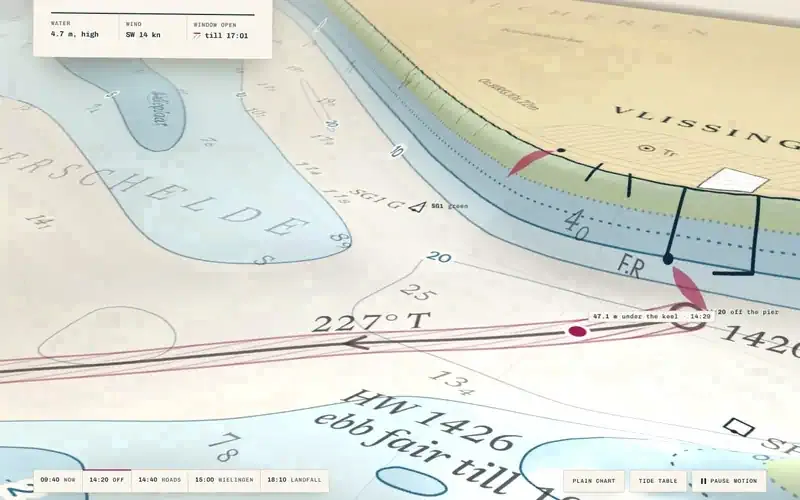
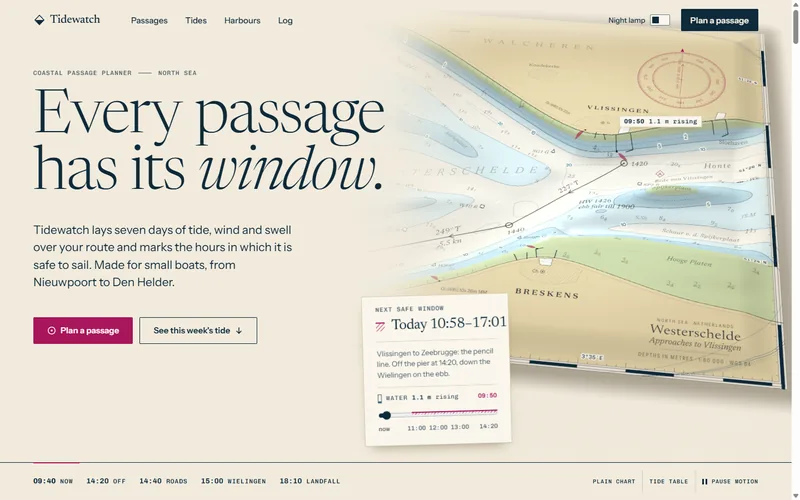
Level 5: a night chart that reads, level 4's tide kept, a hero that clears the strip, a calmer foot
Judged on a real GPU (Radeon RX 9070 XT) in three rounds by two strict judges
(art director 5.5 -> 5.5 -> 6.5, owner 6.5 -> 6.5 -> 6.5).

- Night: the red lamp lights a cabin, not a void (a floor under the pool), and the
  print is pale rose, bright in the pool and softer outside it: Breskens, Hooge
  Platen and the cartouche read again. Day: no white glare (glints and the lamp's
  light on a slope capped); the pool reads again against a room a step darker.
- Level 4's tide kept on the hero: a scale on the slip from now to casting off at
  14:20 with the safe window hatched on it (dragging it holds the clock), and the
  flag at the tide gauge in Vlissingen ("10:01 1.2 m rising") following the camera.
- The hero: the sheet lifted and moved so Breskens and the cartouche stand clear of
  the slip; the slip lies clear of the strip; on a phone the sheet runs the width of
  the screen under the buttons (it was a strip 200 px high).
- The strip of tools is the chart's foot margin: one opaque paper band with a rule,
  the chapters' times as its scale in full ink, the tools as plain words.
- The landfall looks onto the sheet along the end of the line, not at bare table.
- Wind streaks drawn stronger over open water.
- Below the trip, as levels 3 and 4: a softer veil over the days to come, the
  week's stage from its top, day labels with dates only on a phone.
- New GPU previews: level-5.webp and level-5-still.webp.

diff --git a/examples/levels/5/trip.js b/examples/levels/5/trip.js
@@ -80,10 +80,13 @@ const orbit = (v) => {
 };
 // the hero: the sheet big and close in the right half, its lower corner under the slip (the lens shift
 // puts it there without turning the view); on a phone the whole sheet below the words, as an object
-const HERO = { target: [1.15, 0, 0.3], dist: 15.2, el: 45, az: 6, fov: 30, shift: [0.33, 0.12] };
-const HERO_PHONE = { target: [0, 0, 0.15], dist: 50, el: 42, az: 0, fov: 30, shift: [0, -0.55], flight: [0, -0.34] };
-// a phone (or a narrow tablet) has the words over the top of the screen: the sheet lies, whole, in the
-// band between the buttons and the strip of tools, as large as that band allows
+  /* (the lens shift lifts the sheet so Breskens and the cartouche stand clear above the slip, and the camera
+     stands a little further back so the sheet's far corner is not cut by the top of the window) */
+const HERO = { target: [1.15, 0, 0.3], dist: 17.4, el: 45, az: 6, fov: 30, shift: [0.43, 0.3] };
+const HERO_PHONE = { target: [0, 0, 0.15], dist: 50, el: 50, az: 0, fov: 30, shift: [0, -0.55], flight: [0, -0.34] };
+// a phone (or a narrow tablet) has the words over the top of the screen: the sheet lies under the buttons as
+// wide as the screen, as level 4's does, and runs on under the strip of tools and past the fold (fitted into
+// the band between the buttons and the strip it was a strip 200 px high, smaller than level 4's)
 function fitPhoneHero() {
   const hero = section && section.querySelector(".trip__step--hero");
   const actions = hero && hero.querySelector(".hero__actions"), bar = section && section.querySelector(".trip__bar-in");
@@ -93,11 +96,14 @@ function fitPhoneHero() {
   if (inner) hero.style.setProperty("--hero-room", Math.max(320, vh - (inner.getBoundingClientRect().top + window.scrollY)) + "px");
   const top = actions.getBoundingClientRect().bottom + window.scrollY + 16;
   const bottom = vh - bar.offsetHeight - 4;
-  const band = Math.max(150, bottom - top), middle = Math.min(bottom - band / 2, vh - 80);
   const half = Math.tan((HERO_PHONE.fov * Math.PI) / 360);
   const deep = 9 * Math.sin((HERO_PHONE.el * Math.PI) / 180) + 0.5;          // the sheet and its shadow, seen tipped
-  const byHeight = (deep * vh) / (2 * half * band), byWidth = 11.2 / (2 * half * (vw / vh) * 0.94);
-  HERO_PHONE.dist = Math.max(byHeight, byWidth);
+  /* fitted by the width alone; its top lies just under the buttons, its foot where the screen allows */
+  const byWidth = 11.2 / (2 * half * (vw / vh) * 0.94);
+  HERO_PHONE.dist = byWidth;
+  const tall = (deep * vh) / (2 * half * byWidth);                            // its height on the screen, in px
+  const middle = top + tall / 2;
+  void bottom;                                                                // (the strip lies over its foot)
   HERO_PHONE.shift[1] = 1 - (2 * middle) / vh;
 }
 fitPhoneHero();
@@ -129,7 +135,9 @@ const CHAPTERS = [
   { camera: { position: [0.45, 2.75, 3.95], target: [-2.85, -0.25, 2.6], fov: 40 },     // down the Wielingen
     phone: { position: [0.9, 5.2, 4.9], target: [-2.0, -0.25, 2.8], fov: 54 },
     still: { position: [0.3, 2.6, 4.0], target: [-2.6, -0.25, 2.55], fov: 42 }, progress: 0.65, hour: HOURS[3] },
-  { camera: orbit({ target: [-5.25, 0, 3.35], dist: 6.6, el: 50, az: 52, fov: 38 }),   // the landfall, under the red lamp
+    /* the landfall looks along the last of the pencil line onto the sheet, the boat at its end on the edge of
+       the frame: the chart fills the view (aimed past the sheet's edge, half the frame was bare table) */
+  { camera: orbit({ target: [-3.7, 0, 2.9], dist: 5.6, el: 48, az: 60, fov: 40 }),   // the landfall, under the red lamp
     phone: orbit({ target: [-4.55, 0, 3.4], dist: 8.6, el: 56, az: 32, fov: 50 }),
     still: orbit({ target: [-4.1, 0, 3.15], dist: 6.6, el: 42, az: 66, fov: 40 }), progress: 0.85, hour: HOURS[4] },
   { at: 1, camera: { position: [0.0, 12.6, 11.2], target: [0.1, 0, 0.5], fov: 34 },       // the whole sheet, in the room light again
@@ -182,6 +190,12 @@ function callouts(scene, layer) {
   const sounder = document.createElement("span");
   sounder.className = "callout callout--sounder";
   layer.appendChild(sounder);
+    /* the flag at the tide gauge in Vlissingen harbour, as on level 4: the hour and the water the slip says,
+       standing where the water is measured, while the hero is read (never on the journey's own chapters) */
+    const flag = document.createElement("span");
+    flag.className = "callout callout--gauge";
+    layer.appendChild(flag);
+    let flagText = "";
   let last = 0, lastText = "";
   const off = scene.onCamera((camera) => {
     const now = performance.now(), dt = Math.min(0.25, (now - last) / 1000 || 0.016);
@@ -211,6 +225,16 @@ function callouts(scene, layer) {
       c.el.style.opacity = c.shown.toFixed(3);
       c.el.style.transform = `translate3d(${s.x.toFixed(1)}px, ${(s.y - 7).toFixed(1)}px, 0)`;
     }
+      {
+          const [gx, gz] = [(GAUGE[0] - 500) / 100, (GAUGE[1] - 450) / 100];
+          const s = project(gx, scene.surfaceAt(GAUGE[0], GAUGE[1]) + 0.02, gz);
+          const visible = current <= 0 && !opening && !s.behind && s.x > 0 && s.x < w - 160 && s.y > 60 && s.y < barTop - 30 && !under(s.x - 4, s.y - 30, s.x + 150);
+          flag.style.opacity = visible ? "1" : "0";
+          if (visible) {
+              if (gaugeText !== flagText) { flag.innerHTML = gaugeText; flagText = gaugeText; }
+              flag.style.transform = `translate3d(${s.x.toFixed(1)}px, ${(s.y - 30).toFixed(1)}px, 0)`;
+          }
+      }
     // the sounder rides with the boat: the water under the keel, from the tide and the sea bed
     if (boat) {
       const s = project(boat.world[0], boat.world[1] + 0.03, boat.world[2]);
@@ -240,6 +264,9 @@ function wayOf(hour) {
   return rate > 0 ? "rising" : "falling";
 }
 let toldHour = -1;
+  /* what the flag at the gauge says: the same words as the slip ("09:40 1.0 m now", "12:15 3.9 m rising") */
+  let gaugeText = "<b>09:40</b> 1.0 m now";
+  const GAUGE = [706, 366];                                          // the tide gauge, Vlissingen harbour
 function say(hour) {
   const minute = Math.round(hour * 60);
   if (minute === toldHour) return;
@@ -249,6 +276,7 @@ function say(hour) {
     if (r.h) r.h.textContent = metres.toFixed(1) + " m";
     if (r.way) r.way.textContent = wayOf(hour);
     if (r.time) r.time.textContent = clock(hour) + (isNow ? " now" : "");
+      gaugeText = `<b>${clock(hour)}</b> ${metres.toFixed(1)} m ${isNow ? "now" : wayOf(hour)}`;
     if (r.gauge) r.gauge.style.setProperty("--level", clamp(metres / 6).toFixed(3));
     r.el.classList.toggle("is-lapse", !isNow);
   }
@@ -283,19 +311,33 @@ function showChapter(index) {
 function heroClock(journeyHandle) {
   const scene = journeyHandle.scene;
   let hour = NOW, ready = !scene.opening || !scene.opening(), last = 0;
-  journeyHandle.stage.container.addEventListener("tableopen", () => { ready = true; });
+    /* the scale on the slip (level 4's, here from now to casting off): dragging it sets the hour, and the
+       clock no longer runs by itself, so what the reader picked stays */
+    const scrub = document.getElementById("hero-scrub"), input = document.getElementById("hero-hour");
+    let held = false;
+    function setHour(h) {
+        hour = clamp(h, NOW, OFF);
+        scene.setStory({ idleBoat: hour >= OFF ? 1 : 0, idleHatch: smooth(WINDOW[0] - 0.05, WINDOW[0] + 0.45, hour) });
+        const data = dataAt(hour);
+        CHAPTERS[0].params.data.splice(0, 3, ...data);      // the journey blends on from where the clock is
+        CHAPTERS[0].params.hour = hour;
+        scene.setData(data);
+        say(hour);
+        if (input) {
+            const minutes = Math.round((hour - NOW) * 60);
+            if (Number(input.value) !== minutes && !held) input.value = String(minutes);
+            input.setAttribute("aria-valuetext", `${clock(hour)}${Math.abs(hour - NOW) < 1 / 120 ? " now" : ""}, water ${tide.height(hour).toFixed(1)} m, ${wayOf(hour)}`);
+        }
+    }
+    if (input) input.addEventListener("input", () => { held = true; setHour(NOW + Number(input.value) / 60); });
+    const offer = () => { ready = true; if (scrub && !journeyHandle.stage.still) scrub.hidden = false; };
+    journeyHandle.stage.container.addEventListener("tableopen", offer);
+    if (ready) offer();
   return journeyHandle.stage.onFrame(() => {
     const now = performance.now(), delta = last ? Math.min((now - last) / 1000, 1) : 0;
     last = now;
-    if (current > 0 || journeyHandle.stage.still || !ready || hour >= OFF) return;
-    hour = Math.min(OFF, hour + delta / 2.5);
-    if (hour >= OFF) scene.setStory({ idleBoat: 1 });
-    const data = dataAt(hour);
-    CHAPTERS[0].params.data.splice(0, 3, ...data);      // the journey blends on from where the clock is
-    CHAPTERS[0].params.hour = hour;
-    scene.setStory({ idleHatch: smooth(WINDOW[0] - 0.05, WINDOW[0] + 0.45, hour) });
-    scene.setData(data);
-    say(hour);
+    if (current > 0 || journeyHandle.stage.still || !ready || held || hour >= OFF) return;
+      setHour(Math.min(OFF, hour + delta / 2.5));
   });
 }
 

diff --git a/examples/levels/5/level.css b/examples/levels/5/level.css
@@ -307,9 +307,10 @@
 
 /* ---- the week, told as you scroll. level.js marks the story .is-live (motion on, script running), pins its
    stage, walks a cursor through the week and writes which day is current; without it the steps are a list. ---- */
-:root { --color-veil: rgba(242, 235, 221, 0.8); }
-@media (prefers-color-scheme: dark) { :root:not([data-theme="light"]) { --color-veil: rgba(13, 7, 6, 0.8); } }
-:root[data-theme="dark"] { --color-veil: rgba(13, 7, 6, 0.8); }
+/* the days still to come lie under a veil that leaves them as a faint pencil line, still readable as data */
+:root { --color-veil: rgba(242, 235, 221, 0.6); }
+@media (prefers-color-scheme: dark) { :root:not([data-theme="light"]) { --color-veil: rgba(13, 7, 6, 0.58); } }
+:root[data-theme="dark"] { --color-veil: rgba(13, 7, 6, 0.58); }
 
 .tt { margin: 0 0 var(--space-7); }
 .story__day { display: grid; grid-template-columns: minmax(0, 1fr); gap: var(--space-5); margin: var(--space-7) 0 0 var(--tide-gutter, var(--space-6)); }
@@ -322,7 +323,8 @@
 .tide__veil, .tide__cursor, .dayc { display: none; }
 
 .story.is-live { height: calc(100vh + 7 * 44vh); height: calc(100svh + 7 * 44svh); }
-.story.is-live .story__stage { position: sticky; top: 0; display: grid; align-content: center; height: 100vh; height: 100svh; }
+/* the stage starts at its top: centred, it left an empty band between "Today" and the week (as on levels 3 and 4) */
+.story.is-live .story__stage { position: sticky; top: 0; display: grid; align-content: start; height: 100vh; height: 100svh; padding-top: var(--space-4); }
 .story.is-live .tide__plot { height: min(var(--size-plot), 36vh); }
 .story.is-live .story__day { grid-template-columns: minmax(0, 5fr) minmax(0, 7fr); align-items: end; gap: var(--space-5) var(--space-8); margin-top: var(--space-6); }
 .story.is-live .story__steps > .step { grid-area: 1 / 1; display: block; padding: 0; border: 0; opacity: 0; translate: 0 var(--size-shift); }
@@ -819,4 +821,77 @@ html[data-reveal] .notes > .note.arrive { opacity: 1; animation: none; }
 @media (forced-colors: active) {
   .plan__top, .plan__leaf { border-color: CanvasText; }
   .trip__card, .tool, .trip__marks { border-color: CanvasText; }
+}
+
+/* ---- level 4's tide on the hero, kept: the scale on the slip and the flag at the gauge ---- */
+/* the scale: from now to casting off; the window's hours are lit on it as on level 4's */
+.scrub5 { position: relative; margin-top: var(--space-3); padding-bottom: var(--space-4); }
+.scrub5__input { width: 100%; margin: 0; accent-color: var(--color-text); cursor: pointer; }
+.scrub5__input:focus-visible { outline: var(--size-ring, 2px) solid var(--color-accent); outline-offset: 3px; }
+.scrub5__ticks { position: absolute; left: 0; right: 0; bottom: 0; height: var(--space-4); font: 500 0.6875rem/1 var(--font-mono); color: var(--color-text-muted); font-variant-numeric: tabular-nums; }
+.scrub5__ticks span { position: absolute; left: calc(var(--t) * 100%); bottom: 0; transform: translateX(calc(var(--t) * -100%)); white-space: nowrap; }
+/* the slip keeps one height: on a wide screen with motion on the scale's room is kept from the first paint
+   (!important: base.css hides every [hidden] with !important; this room is kept on purpose, unseen) */
+@media (prefers-reduced-motion: no-preference) and (min-width: 60.0625rem) {
+    .hero__slip .scrub5[hidden] { display: block !important; visibility: hidden; }
+}
+/* the flag at the tide gauge: the hour and the water, as on level 4, standing on the chart */
+.callout--gauge {
+    padding: var(--space-1) var(--space-2); border: var(--size-border) solid var(--color-border); border-radius: var(--radius-sm);
+    background: var(--color-surface); color: var(--color-text); text-shadow: none; box-shadow: 0 6px 14px -8px var(--color-relief);
+}
+.callout--gauge::before { display: none; }
+.trip[data-night-now] .callout--gauge { background: var(--night-surface); border-color: var(--night-border); }
+
+/* ---- the strip of tools as the chart's foot margin, not a row of boxes: one paper band with a ruled
+   top edge across the screen; the chapters are its scale (times as ticks, the current one under a magenta
+   bar) and the tools plain words in the instruments' voice, divided by hairlines. Boxed, each with its own
+   border and shadow, they read as scaffolding over the chart and crowded the slips. ---- */
+.trip__bar-in {
+    background: var(--color-bg);                 /* opaque paper: with the chart showing through it read as glass */
+    border-top: var(--size-border) solid var(--color-rule);
+}
+.trip__marks, .tool { border: 0; border-radius: 0; background: none; box-shadow: none; }
+.trip__marks li + li { border-left: 0; }
+.trip__marks a { padding-inline: var(--space-3); }
+.trip__marks li:first-child a { padding-left: 0; }
+.trip__marks a::after { top: calc(-1 * (var(--size-tools) - var(--size-control-sm)) / 2 - 1px); }
+.trip__marks a:hover { background: none; }
+.trip__tools { gap: 0; }
+.tool { padding: 0 var(--space-3); }
+.tool + .tool { border-left: var(--size-border) solid var(--color-border); }
+.trip__tools .tool:last-child { padding-right: 0; }
+.tool:hover { text-decoration: underline; text-underline-offset: 3px; }
+.tool[aria-pressed="true"] { background: none; color: var(--color-text); text-decoration: underline; text-decoration-thickness: 2px; text-underline-offset: 3px; }
+.trip[data-night-now] .trip__bar-in { background: var(--night-bg); border-top-color: var(--night-border); }
+
+/* a phone: the sheet lies in the band under the buttons, as wide as the screen; the slip stays one compact
+   corner over it (the time and the water), so the scale is left out there and the hours run by themselves */
+@media (max-width: 44rem) {
+    .trip__step--hero .hero__slip .scrub5 { display: none !important; }
+}
+
+/* the week on a phone: each column keeps its date only, the caption says which day it is (as levels 3 and 4) */
+@media (max-width: 44rem) {
+    .story.is-live .tide__days b, .story.is-live .tide__days .moon { display: none; }
+}
+
+/* the hero's slip carries level 4's scale now, so on a wide screen it lies 60 px higher: its foot stays clear
+   of the strip of tools (the strip is a paper band, and the slip ran under it) */
+@media (min-width: 60.0625rem) {
+    .trip__step--hero .hero__slip { bottom: calc(var(--size-tools) + var(--space-3) + 3.75rem); }
+}
+
+/* the chapters' times are the film's timeline: larger, in full ink, the current one bold under its bar
+   (in the small muted print they read as a footnote) */
+.trip__marks a { font-size: var(--text-xs); color: var(--color-text); }
+.trip__marks b { font-size: var(--text-sm); }
+.trip__marks a[aria-current="step"] b { font-weight: 700; }
+
+/* the safe window on the scale, as on level 4: hatched in magenta from 10:58 (28 percent of the way from now
+   to casting off) to the end of the scale, under the thumb's track */
+.scrub5::before {
+    content: ""; position: absolute; left: 27.9%; right: 0; top: calc(50% - var(--space-4) / 2 - 7px); height: 5px; pointer-events: none;
+    border-top: 2px solid var(--color-accent);
+    background: repeating-linear-gradient(-45deg, var(--color-hatch) 0 1px, transparent 1px 4px);
 }

diff --git a/examples/levels/5/table.js b/examples/levels/5/table.js
@@ -181,7 +181,8 @@ void main() {
     vec3 wn = normalize(vec3(-g.y * (0.008 + 0.022 * strength), 1.0, -g.z * (0.008 + 0.022 * strength)));
     vec3 Vq = normalize(cameraPosition - Q), Lq = normalize(uLampPos - Q);
     float hv = clamp(dot(wn, normalize(Lq + Vq)), 0.0, 1.0);
-    glint = (pow(hv, 280.0) * 2.6 + pow(hv, 48.0) * 0.4) * (0.25 + 0.75 * sh) * wet;
+      /* small, few glints: at 2.6 and 0.4 they burned a white glare into the middle of the chart */
+      glint = (pow(hv, 420.0) * 1.1 + pow(hv, 70.0) * 0.12) * (0.25 + 0.75 * sh) * wet;
     // the shoal tint deepens where the water stands shallow over a bank, a clearer wash over the deeps:
     // the banks surface and flood with the tide, with no line drawn of their own
     shallow = 1.0 - smoothstep(0.6, 3.2, depth);
@@ -198,7 +199,8 @@ void main() {
       vec2 crossWind = vec2(-w.y, w.x);
       vec2 lanePos = vec2(dot(chart, crossWind) * 0.034, dot(chart, w) * 0.0045 - uRipple * 0.05);
       float lane = smoothstep(-0.1, 0.6, snoise(lanePos) * 0.75 + snoise(lanePos * 2.3 + 4.1) * 0.35);
-      foam = clamp(pts * 2.0 / wsum, 0.0, 0.45) * uWindOn * smoothstep(0.8, 2.5, depth) * mix(0.15, 1.0, lane) * wet;
+        /* (up to 0.7: at 0.45, mixed in at half strength, no judge could find a single streak) */
+        foam = clamp(pts * 2.4 / wsum, 0.0, 0.7) * uWindOn * smoothstep(0.8, 2.5, depth) * mix(0.25, 1.0, lane) * wet;
     }
   }
 
@@ -230,15 +232,19 @@ void main() {
     vec3 base = texture(uBase, uv).rgb;
     float paper = 1.0 - smoothstep(0.004, 0.03, distance(base, uPaper));
     float pool = dayPool(P.xz) * uLampOn * mix(1.0, paper, uPosterLamp);
-    float lampLit = mix(1.0, clamp(face, 0.0, 1.25) * mix(0.3, 1.0, sh), uRise);
+      /* the lamp lights a slope at most fully, never past it (1.25 bleached the paper in the pool) */
+      float lampLit = mix(1.0, clamp(face, 0.0, 1.0) * mix(0.3, 1.0, sh), uRise);
     // the room keeps the paper as the page shows it; the lamp warms and brightens its pool, and its
     // light is what the relief's shadows take away
-    vec3 dayLight = vec3(mix(1.0, 0.95, uRise) * hill);
-    dayLight *= mix(vec3(1.0), uLampRatio * mix(1.0, 1.05, uRise), pool * lampLit);
+      /* the room beyond the lamp a step darker once the relief stands, and the pool a warm step brighter: by day
+         the lamp is a pool you can see and follow with the hand (at 0.95 it had faded from the first screen) */
+      vec3 dayLight = vec3(mix(1.0, 0.86, uRise) * hill);
+      dayLight *= mix(vec3(1.0), uLampRatio * mix(1.0, 1.16, uRise), pool * lampLit);
     vec3 day = base * dayLight;
     day = mix(day, mix(uWaterTint, uShoal, shallow * 0.55) * dayLight, wa);
     day += uLampRatio * 0.9 * glint * (0.35 + 0.65 * pool);
-    day = mix(day, dayLight, foam * 0.5);
+      /* the wind's streaks: pale lines of foam drawn out down the wind, plain to see on the open water */
+      day = mix(day, dayLight * 1.04, foam * 0.85);
     // the ink over the water, lit as the paper is; then the window's hatch, then the boat
     day = mix(day, toLinear(c) * mix(vec3(1.0), dayLight, 0.4), ink.a);
     day = mix(day, uWindow0 * dayLight, band * 0.07);
@@ -252,14 +258,22 @@ void main() {
     // by night the red lamp is all the light there is: the sheet glows where it falls and goes dark
     // toward its edges, the tints darken it, the ink is dark on the red (the paper halos of the figures
     // go, the magenta of the lights and the rose turns to the lamp's dim red)
-    vec3 glow = nightGlow(P.xz) * mix(1.0, mix(0.84, 1.14, clamp(face, 0.0, 1.2)) * mix(0.74, 1.0, sh), uRise);
+      /* the red lamp, and the cabin it lights: outside the pool the sheet stays a dim red, never black (black
+         sank Breskens, Hooge Platen and the cartouche into mud) */
+      vec3 glow = max(nightGlow(P.xz), uNightLamp * 0.16) * mix(1.0, mix(0.84, 1.14, clamp(face, 0.0, 1.2)) * mix(0.74, 1.0, sh), uRise);
     vec3 night = glow * texture(uBaseNight, uv).rgb;
     night = night * mix(1.0, 0.9, wet * smoothstep(0.0, 2.0, depth)) + glow * glint * 0.5;
     if (ink.a > 0.003) {
       float light = dot(c, vec3(0.3, 0.59, 0.11));
       float magenta = clamp((c.r - c.g) * 3.0 - 0.4, 0.0, 1.0);
       float halo = smoothstep(0.62, 0.86, light);
-      night = mix(night, mix(uInk1, uMagenta1 * (0.6 + 0.6 * glow / max(uNightLamp, vec3(0.01))), magenta), ink.a * (1.0 - halo) * 0.94);
+        /* the print by night is pale rose, as on levels 3 and 4: bright where the lamp lights the sheet, softer in
+           the gloom, so every word reads anywhere; the chart's magenta (lights, the rose) a warmer rose.
+           Linear values: #c98c7a to #ffd6c8, and #ff9c7e */
+        float lit = smoothstep(0.03, 0.14, glow.r);
+        vec3 pale = mix(vec3(0.58, 0.26, 0.19), vec3(1.0, 0.67, 0.58), lit);
+        vec3 rose = mix(vec3(0.62, 0.2, 0.12), vec3(1.0, 0.33, 0.2), lit);
+        night = mix(night, mix(pale, rose, magenta), ink.a * (1.0 - halo) * 0.94);
     }
     night = mix(night, uWindow1, band * hatch * 0.3 + rim * 0.2);
     night = mix(night, uNightLampMid * 0.6, boatHalo);

diff --git a/examples/levels/5/index.html b/examples/levels/5/index.html
@@ -249,6 +249,7 @@
       <p class="hero__slip-time"><span class="hatch" aria-hidden="true"></span>Today 10:58–17:01</p>
       <p class="hero__slip-note" data-depth-layer="1">Vlissingen to Zeebrugge: the pencil line. Off the pier at 14:20, down the Wielingen on the ebb.</p>
       <p class="tidebar" data-tide><span class="gauge" aria-hidden="true"><i></i></span><span class="tidebar__label">Water</span> <b class="tidebar__h" data-tide-h>1.0 m</b> <span class="tidebar__way" data-tide-way>rising</span> <span class="tidebar__time" data-tide-time>09:40 now</span></p>
+      <div class="scrub5" id="hero-scrub" hidden><input class="scrub5__input" type="range" id="hero-hour" min="0" max="280" step="5" value="0" aria-label="Hour shown on the chart, from now to casting off at 14:20" aria-valuetext="09:40 now, water 1.0 m, rising"><span class="scrub5__ticks" aria-hidden="true"><span style="--t:0">now</span><span style="--t:0.2857">11:00</span><span style="--t:0.5">12:00</span><span style="--t:0.7143">13:00</span><span style="--t:1">14:20</span></span></div>
     </aside>
     </div>
     <figure class="trip__still" data-chapter-still></figure>
